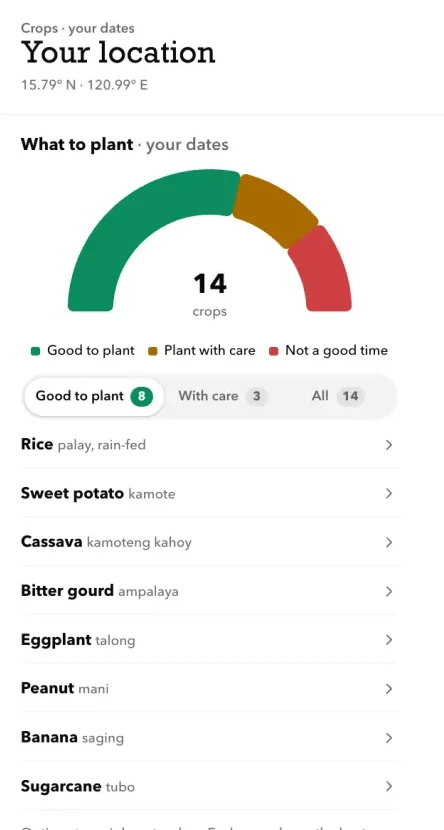
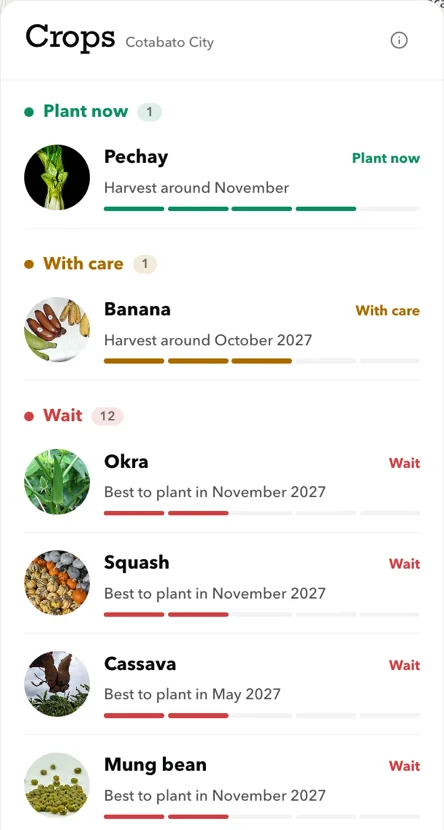
feat(client): update landing crops screenshot

diff --git a/client/src/features/home/pages/HomePage.tsx b/client/src/features/home/pages/HomePage.tsx
@@ -82,8 +82,8 @@ export function HomePage() {
               <div className="c2">
                 <article className="card rv" data-rv style={{ background: 'var(--mint-200)' }}>
                   <h3 className="h3">14 crops</h3>
-                  <p>Rice, corn, cassava, banana and more. Each one rated for your dates.</p>
-                  <img className="side" src={cropsShot} width="444" height="830" loading="lazy" alt="The Crops tab: a half-donut of 14 crops, 8 good to plant, then rice, sweet potato and cassava at the top of the list." />
+                  <p>Rice, corn, cassava, banana and more. Each one rated for planting now.</p>
+                  <img className="side" src={cropsShot} width="444" height="830" loading="lazy" alt="The Crops panel: crops grouped into Plant now, With care and Wait, each with a photo, a 1 to 5 rating and when to harvest." />
                 </article>
                 <article className="card short rv" data-rv style={{ background: 'var(--mist-200)' }}>
                   <h3 className="h3">Rain and heat, checked</h3>
